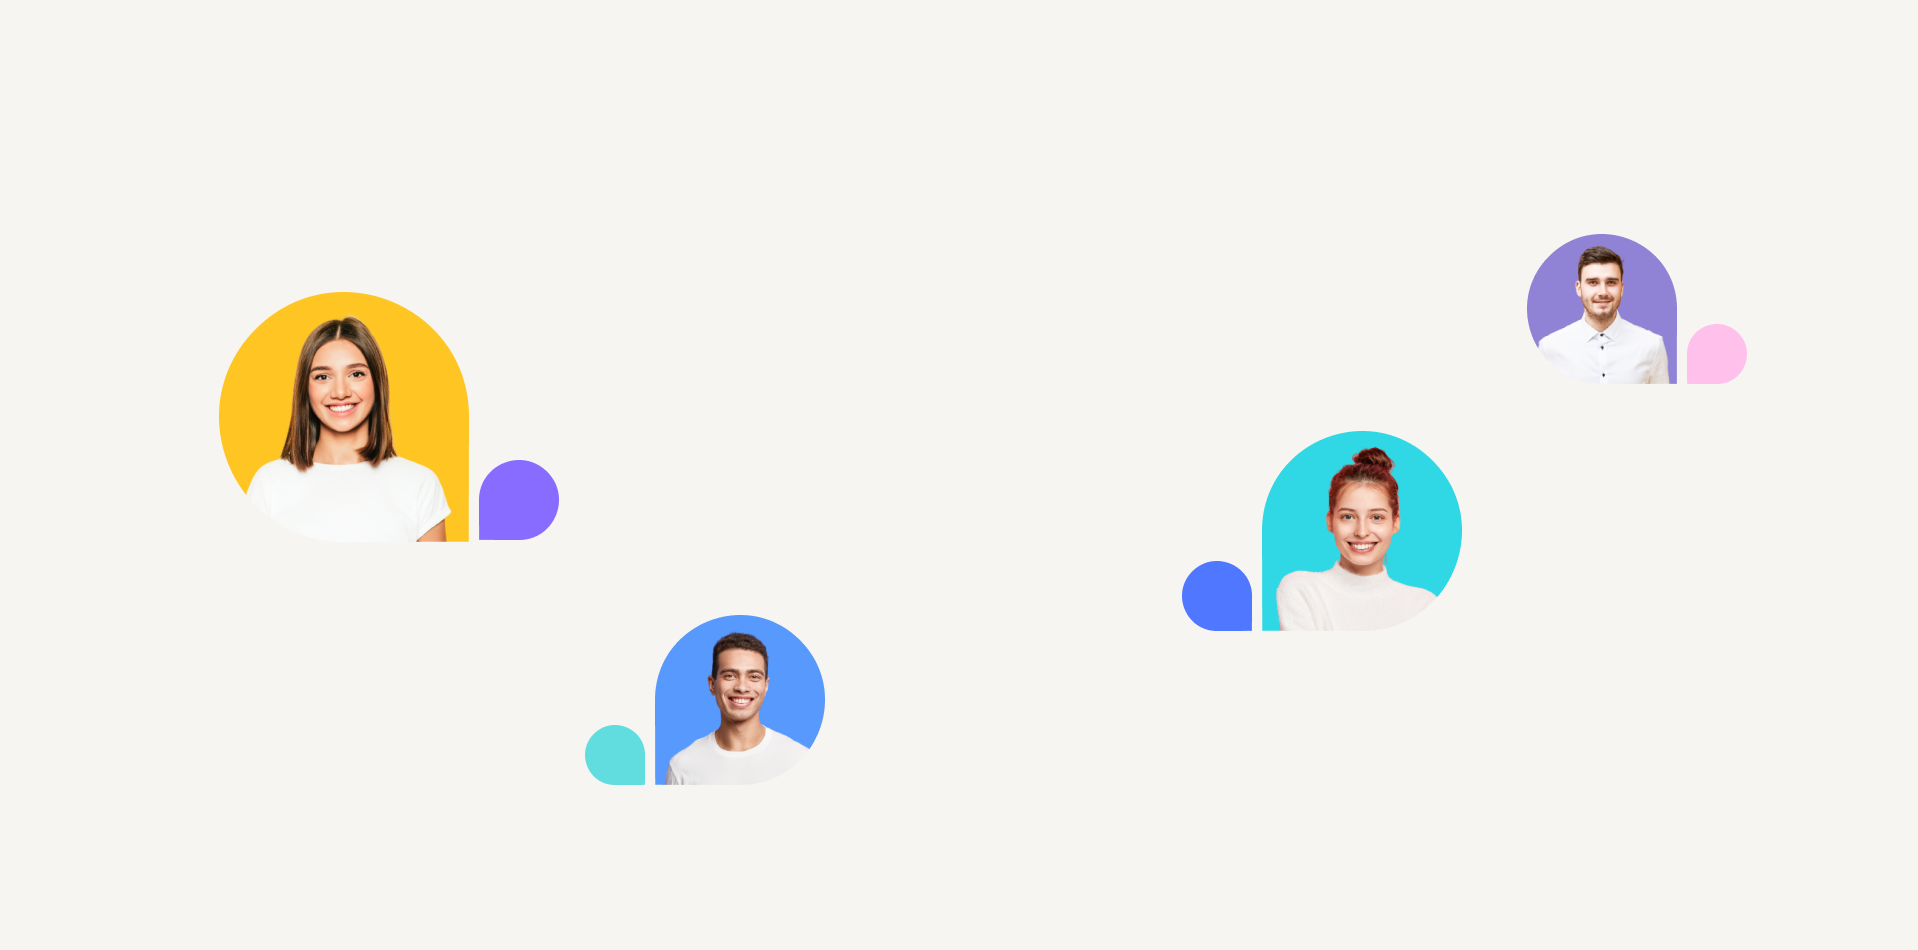
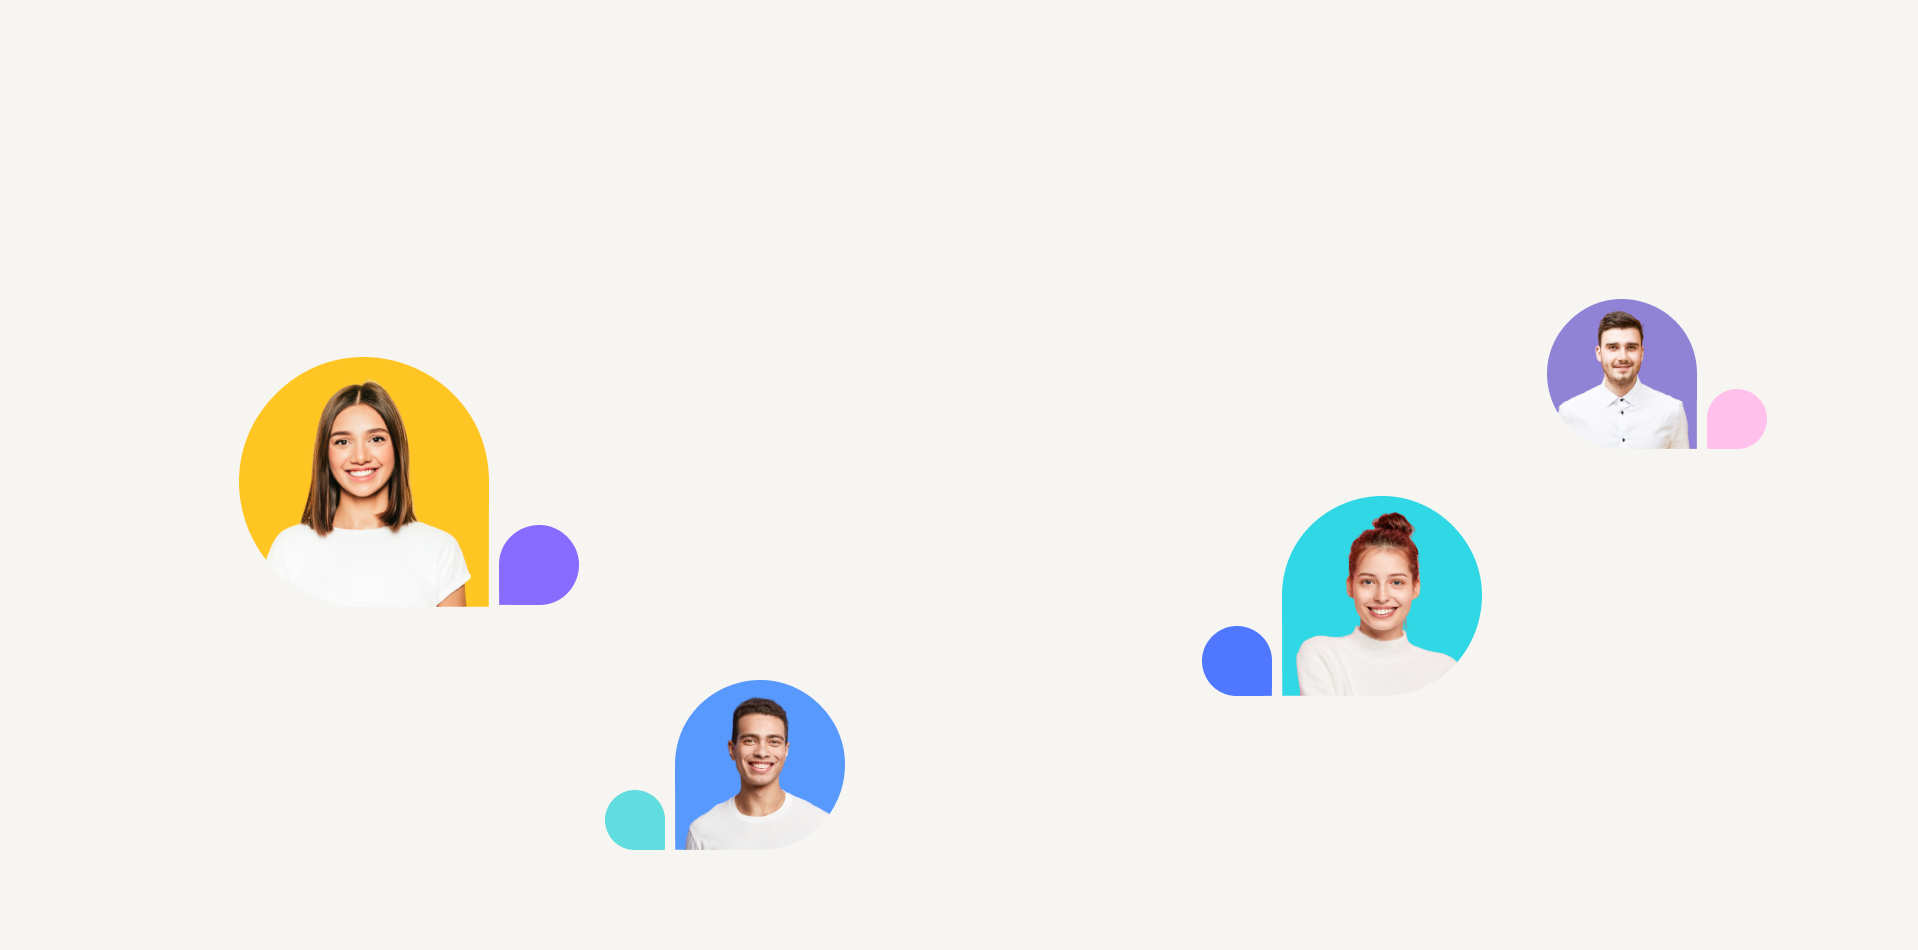
home_coworking_v1.0

diff --git a/src/scss/styles.css b/src/scss/styles.css
@@ -72,8 +72,7 @@ a {
 abbr[title] {
   border-bottom: none; /* 1 */
   text-decoration: underline; /* 2 */
-  -webkit-text-decoration: underline dotted;
-          text-decoration: underline dotted; /* 2 */
+  text-decoration: underline dotted; /* 2 */
 }
 
 /**
@@ -404,7 +403,8 @@ h6 {
   }
 }
 .page-header {
-  height: 950px;
+  padding-bottom: 130px;
+  position: relative;
 }
 
 .page-header__navigate {
@@ -414,16 +414,12 @@ h6 {
   align-items: center;
 }
 
-.page-header__background {
+.page-header__img {
+  width: 100%;
   position: absolute;
   top: 0;
   left: 0;
   z-index: -1;
-  width: 100%;
-}
-
-.page-header__img {
-  width: 100%;
 }
 
 .page-header__logo {
@@ -624,7 +620,7 @@ h6 {
   padding: 20px 0px;
 }
 
-.header-content____heading--color {
+.header-content__heading--color {
   background: linear-gradient(224deg, #61DCDF 0%, #886CFF 100%);
   background-clip: text;
   -webkit-background-clip: text;
@@ -785,8 +781,8 @@ h6 {
   bottom: 0;
   right: 0;
   transform: translateX(120%);
-  width: 60px;
-  height: 60px;
+  width: 50px;
+  height: 50px;
   background-color: #4F77FF;
   border-top-left-radius: 50%;
   border-top-right-radius: 50%;
@@ -1023,7 +1019,7 @@ h6 {
 
 .about {
   background-color: #F7F5F1;
-  padding: 110px 0px 0px 120px;
+  padding: 110px 0px 120px 0px;
   height: 1172px;
 }
 
@@ -1145,7 +1141,6 @@ h6 {
   position: relative;
   z-index: 2;
   transform: translate(12%, 34%);
-  width: -moz-fit-content;
   width: fit-content;
 }
 
@@ -1153,18 +1148,16 @@ h6 {
   position: relative;
   z-index: 1;
   transform: translate(-38%, 4%);
-  width: -moz-fit-content;
   width: fit-content;
 }
 
 .about__img--lar img {
-  width: -moz-fit-content;
   width: fit-content;
 }
 
 .about__img--decorate {
-  width: 100px;
-  height: 100px;
+  width: 80px;
+  height: 80px;
   background-color: #886CFF;
   position: absolute;
   bottom: 10px;
@@ -1219,8 +1212,8 @@ h6 {
 }
 
 .portfolio__decorate {
-  width: 80px;
-  height: 80px;
+  width: 55px;
+  height: 55px;
   background-color: #4F77FF;
   border-top-left-radius: 50%;
   border-top-right-radius: 50%;
@@ -1228,7 +1221,7 @@ h6 {
   position: absolute;
   bottom: 0;
   left: 0;
-  transform: translate(-100%, -160%);
+  transform: translate(-90%, -220%);
 }
 
 .pricing {
@@ -1448,8 +1441,8 @@ h6 {
 }
 
 .table__decorate {
-  width: 70px;
-  height: 70px;
+  width: 50px;
+  height: 50px;
   background-color: #FFC623;
   border-top-left-radius: 50%;
   border-top-right-radius: 50%;
@@ -1598,8 +1591,8 @@ h6 {
 }
 
 .reviews__decorate {
-  width: 70px;
-  height: 70px;
+  width: 50px;
+  height: 50px;
   background-color: #4F77FF;
   border-top-left-radius: 50%;
   border-bottom-left-radius: 50%;
@@ -1607,7 +1600,7 @@ h6 {
   position: absolute;
   top: 0;
   left: 0;
-  transform: translate(-100%, 50%);
+  transform: translate(-90%, 60%);
 }
 
 .footer {
@@ -1759,4 +1752,6 @@ h6 {
 
 .footer__socials-link:hover {
   color: #85a0fa;
-}/*# sourceMappingURL=styles.css.map */
+}
+
+/*# sourceMappingURL=styles.css.map */

diff --git a/index.html b/index.html
@@ -118,7 +118,7 @@
 
                                 <h3 class="header-content__heading">
                                     Everything we do to make 
-                                    <span class="header-content____heading--color">work better.</span>
+                                    <span class="header-content__heading--color">work better.</span>
                                 </h3>
     
                                 <div class="header-content__sub">
@@ -157,9 +157,9 @@
                 
             </div>
 
-            <div class="page-header__background">
-                <img src="./assets/img/img_background-head.png" alt="" class="page-header__img">
-            </div>
+            <img src="./assets/img/img_background-head.png" alt="" class="page-header__img">
+            <!-- <div class="page-header__background">
+            </div> -->
 
         </div>
             
@@ -565,23 +565,27 @@
             <div class="about">
                 <div class="container">
 
-                    <div class="about__head">
-
-                        <h3 class="about__heading">
-                            <span class="about__heading--color">
-                                Office space 
-                            </span>
-                            your way. Work wherever business takes you
-
-                        </h3>
-
-                        <div class="about__sub">
-                            <p>
-                                From a single desk to a whole building. The choice is yours
-                            </p>
-
+                    <div class="row">
+                        <div class="col" style="--col-lg: 12;">
+                            <div class="about__head">
+        
+                                <h3 class="about__heading">
+                                    <span class="about__heading--color">
+                                        Office space 
+                                    </span>
+                                    your way. Work wherever business takes you
+        
+                                </h3>
+        
+                                <div class="about__sub">
+                                    <p>
+                                        From a single desk to a whole building. The choice is yours
+                                    </p>
+        
+                                </div>
+        
+                            </div>
                         </div>
-
                     </div>
 
                     <div class="row">

diff --git a/src/scss/components/pageHeader.scss b/src/scss/components/pageHeader.scss
@@ -1,5 +1,8 @@
 .page-header {
-    height: 950px;
+    padding-bottom: 130px;
+    position: relative;
+    // padding-top: 50%;
+    // background: url(.../assets/img/img_background-head.png) top center / cover no-repeat;
 
 }
 .page-header__navigate {
@@ -11,16 +14,21 @@
 }
 
 .page-header__background {
-    position: absolute;
-    top: 0;
-    left: 0;
-    z-index: -1;
-    width: 100%;
+    // position: absolute;
+    // top: 0;
+    // left: 0;
+    // z-index: -1;
+    // width: 100%;
 
 }
 
 .page-header__img {
     width: 100%;
+    position: absolute;
+    top: 0;
+    left: 0;
+    z-index: -1;
+
 }
 
 

diff --git a/src/scss/components/reviews.scss b/src/scss/components/reviews.scss
@@ -101,8 +101,8 @@
 
 // Decorate
 .reviews__decorate {
-    width: 70px;
-    height: 70px;
+    width: 50px;
+    height: 50px;
     background-color: #4F77FF;
     border-top-left-radius: 50%;
     border-bottom-left-radius: 50%;
@@ -110,6 +110,6 @@
     position: absolute;
     top: 0;
     left: 0;
-    transform: translate(-100%, 50%);
+    transform: translate(-90%, 60%);
 
 }

diff --git a/src/scss/components/portfolio.scss b/src/scss/components/portfolio.scss
@@ -51,8 +51,8 @@
 }
 
 .portfolio__decorate {
-    width: 80px;
-    height: 80px;
+    width: 55px;
+    height: 55px;
     background-color: #4F77FF;
     border-top-left-radius: 50%;
     border-top-right-radius: 50%;
@@ -60,6 +60,6 @@
     position: absolute;
     bottom: 0;
     left: 0;
-    transform: translate(-100%, -160%);
+    transform: translate(-90%, -220%);
 
 }

diff --git a/src/scss/components/about.scss b/src/scss/components/about.scss
@@ -1,6 +1,6 @@
 .about {
     background-color: #F7F5F1;
-    padding: 110px 0px 0px 120px;
+    padding: 110px 0px 120px 0px;
     height: 1172px;
 
 }
@@ -172,8 +172,8 @@
 }
 
 .about__img--decorate {
-    width: 100px;
-    height: 100px;
+    width: 80px;
+    height: 80px;
     background-color: #886CFF;
     position: absolute;
     bottom: 10px;

diff --git a/src/scss/components/services.scss b/src/scss/components/services.scss
@@ -99,8 +99,8 @@
     right: 0;
     transform: translateX(120%);
 
-    width: 60px;
-    height: 60px;
+    width: 50px;
+    height: 50px;
     background-color: #4F77FF;
     border-top-left-radius: 50%;
     border-top-right-radius: 50%;

diff --git a/src/scss/components/pricing.scss b/src/scss/components/pricing.scss
@@ -261,8 +261,8 @@
 
 // decorate
 .table__decorate {
-    width: 70px;
-    height: 70px;
+    width: 50px;
+    height: 50px;
     background-color: #FFC623;
     border-top-left-radius: 50%;
     border-top-right-radius: 50%;

diff --git a/src/scss/components/headerContent.scss b/src/scss/components/headerContent.scss
@@ -28,7 +28,7 @@
 
 }
 
-.header-content____heading--color {
+.header-content__heading--color {
     background: linear-gradient(224deg, #61DCDF 0%, #886CFF 100%);
     background-clip: text;
     -webkit-background-clip: text;
